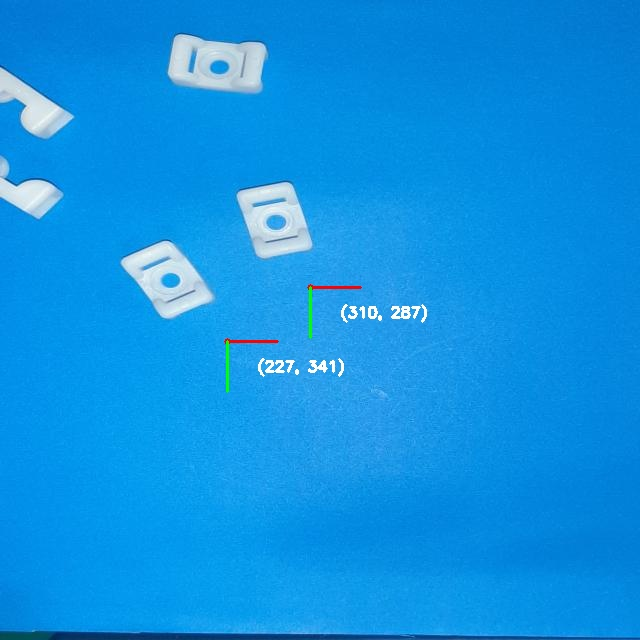
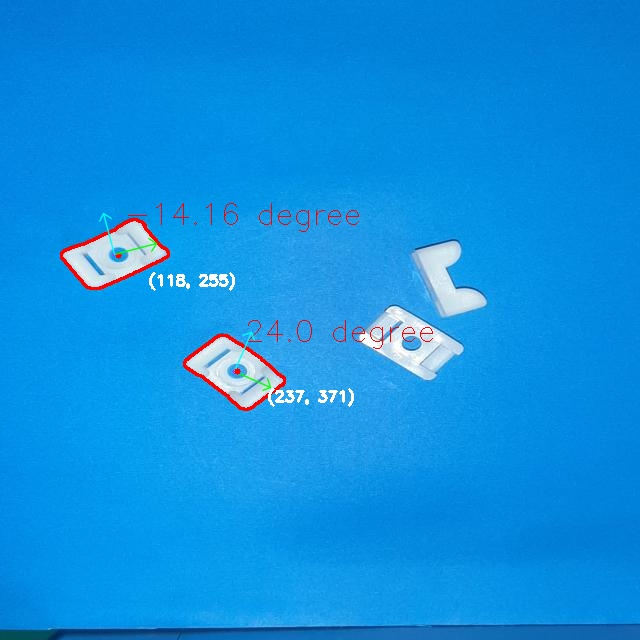
update

diff --git a/detectByYolov8/predictionFinish.py b/detectByYolov8/predictionFinish.py
@@ -8,7 +8,7 @@ from math import atan2, cos, sin, sqrt, pi
 import matplotlib.pyplot as plt
 import matplotlib.colors as mcolors
 
-link = r'E:\My_Code\NhanDienvat\detectByYolov8\dataset_specialItems\train\images\20230922_155040_jpg.rf.135c858726962230e85c829b187e7333.jpg'
+link = r'E:\My_Code\NhanDienvat\detectByYolov8\dataset_specialItems\train\images\20230922_155311_jpg.rf.d9e71c3fb09e56d9448ac554eb0694b0.jpg'
 
 image = cv2.imread(link)
 
@@ -63,50 +63,6 @@ def getOrientation(pts, img):
  return degree
 
 
-# beta = -50  # Giảm độ sáng
-
-# # Sử dụng hàm cv2.convertScaleAbs để giảm độ sáng của ảnh
-# src = cv2.convertScaleAbs(image, alpha=1, beta=beta)
-
-
-# # Check if image is loaded successfully
-# if src is None:
-# #  print('Could not open or find the image: ', args.input)
-#  exit(0)
-# # cv2.imshow('src', src)
-# # Convert image to grayscale
-# gray_picture = cv2.cvtColor(src, cv2.COLOR_BGR2GRAY)
-
-# gray_inverted = cv2.bitwise_not(gray_picture)
-# # Convert image to binary
-# _, bw = cv2.threshold(gray_picture, 50, 255, cv2.THRESH_BINARY | cv2.THRESH_OTSU)
-# contours, _ = cv2.findContours(bw, cv2.RETR_LIST, cv2.CHAIN_APPROX_NONE)
-# for i, c in enumerate(contours):
-#  # Calculate the area of each contour
-#  area = cv2.contourArea(c)
-#  # Ignore contours that are too small or too large
-#  if area < 1e2*3 or 1e5 < area:
-#   continue
-#  # Draw each contour only for visualisation purposes
-#  cv2.drawContours(src, contours, i, (0, 0, 255), 2)
-#  # Find the orientation of each shape
-#  getOrientation(c, src)
-#  cv2.imwrite('orientation_image.jpg',src)
-# //////////////
-# cv2.imshow('output', src)
-# Assuming you have a grayscale image in the 'gray_picture' variable
-# Normalize the grayscale values to be between 0 and 1
-
-# plt.imshow(bw, cmap="gray")
-# plt.title("Bitwise Gray")
-# plt.axis("off")
-# plt.show()
-
-# plt.imshow(gray_inverted, cmap="gray")
-# plt.title("gray_inverted Gray")
-# plt.axis("off")
-# plt.show()
-
 # ///////////////////////////////////
 
 # Load a model
@@ -123,19 +79,11 @@ mylistmask = []
 
 checkitem = []
 for r in results:
-    # mylistmask = r.masks.xy #ssử dụng nếu dùng phương pháp tìm tọa độ tâm theo các điểm masks
-    # print("mask: ",r.masks[0].xy[0])
-    # print("shape: ",r.masks.shape)
-    # print("masks: ",r.masks)
-    # print("boxes: ",r.boxes)  # print the Boxes object containing the detection bounding boxes
     myList = r.boxes.xywh.tolist()
     checkitem = r.boxes.cls.tolist()
-    # print(int(checkitem[2]))
-# print("myList: ",myList)
-# print("length: ",len(myList))
 
 
-# print(list)
+
 count = 0
 
 while count < len(checkitem):
@@ -201,42 +149,11 @@ while count < len(checkitem):
     # in tọa độ của tâm
     text = f"({int(list_bb[0])}, {int(list_bb[1])})"
     cv2.putText(image, text, (int(list_bb[0])+30,int(list_bb[1])+30), cv2.FONT_HERSHEY_SIMPLEX, 0.5, (255, 255, 255), 2)
-    # cv2.line(image, (int(list[0]),int(list[1])), (int(list[0]) + 50, int(list[1])), (0, 0, 255), 2)  # Vẽ trục X (màu đỏ)
-    # cv2.line(image, (int(list[0]),int(list[1])), (int(list[0]), int(list[1]) + 50), (0, 255, 0), 2)  # Vẽ trục Y (màu xanh lá)
-  count = count + 1
-# print("list masks: ",mylistmask.tolist()[0])
+  count+=1
 
 
-
-# ///////////////////Cách lấy tâm từ các điểm masks/////////////
-# count = 0
-# while count < len(mylistmask):
-#   if checkitem[count] == 4.0:
-#     print("count: ", count)
-#     print(mylistmask[count].tolist())
-#     listitem = mylistmask[count].tolist()
-#     count2 = 0
-#     totalx= 0
-#     totaly = 0
-#     x = 0
-#     y = 0
-    
-#     while count2 < len(listitem):
-#       print(listitem[count2])
-#       coodinate = listitem[count2]
-#       totalx = totalx + coodinate[0]
-#       totaly = totaly + coodinate[1]
-#       # cv2.circle(image, (int(coodinate[0]),int(coodinate[1])), 3, color, thickness)
-#       cv2.drawMarker(image, (int(coodinate[0]),int(coodinate[1])), color, markerType=cv2.MARKER_STAR, markerSize=2)
-#       count2 = count2 + 1
-#     x = totalx / len(listitem)
-#     y = totaly / len(listitem)
-#     cv2.drawMarker(image, (int(x),int(y)), color, markerType=cv2.MARKER_STAR, markerSize=2)
-#   count = count + 1
-
-
-cv2.imwrite('output_image2.jpg', image)
-cv2.imwrite('output_image3.jpg', result)
+# cv2.imwrite('output_image2.jpg', result)
+cv2.imwrite('output_image_Finish.jpg', image)
 
 
 #Kết luận rằng lấy tâm của bounding box của lỗ tâm chuẩn hơn cách lấy tâm từ các điểm masks của lỗ tâm 
